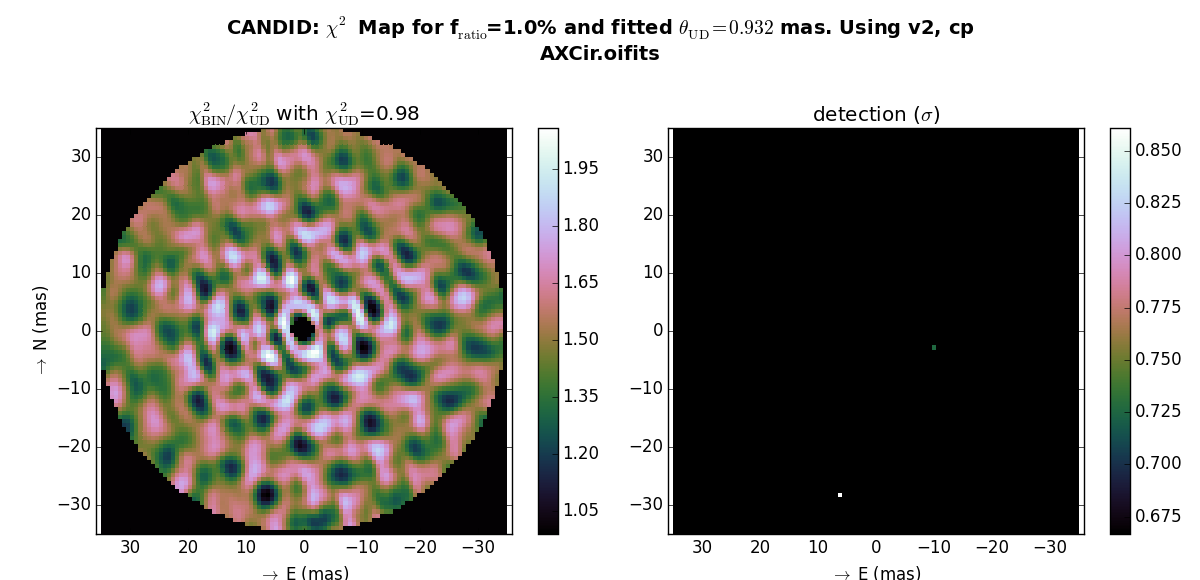
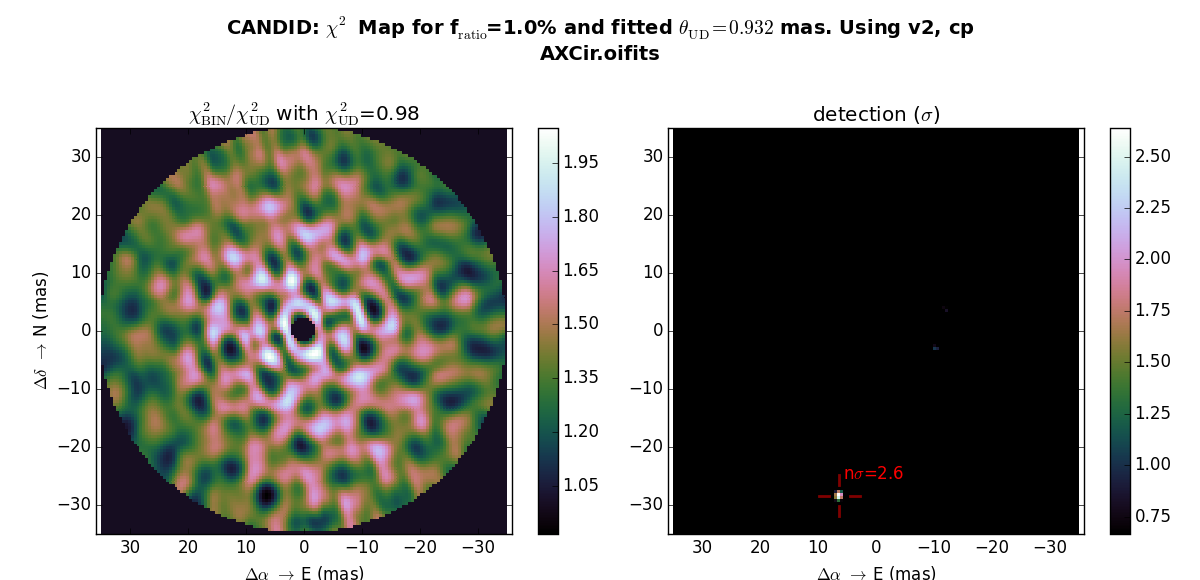
up to date doc for 0.4

diff --git a/README.md b/README.md
@@ -30,9 +30,9 @@ The code has *not* been deeply error proofed. If you encounter problems or bugs,
 ## Examples:
 
 see "candidTest.py", function "AXCir". on a Core i7 2.2GHz, It runs in about 50 seconds with the 'fast' option (fast indeed, but not accurate!), and almost 6 minutes in normal mode.
-* **chi2 Maps**. These are useful because fast, but dangerous because it is easy to miss a companion just using those. On FIG1 and FIG2, we show to runs for different diamaters and flux ratio: either the diameter is fitted to the V2 data ([FIG1](https://github.com/amerand/CANDID/blob/master/doc/figure_1.png)) or fixed ([FIG2](https://github.com/amerand/CANDID/blob/master/doc/figure_2.png)). The fit sounds better but actually it is biased if a companion is present. The chi2 map shows a deep minimum only if the grid if fine enough (the structure in the map should be clear, not pixelated) but also if the parameters (inc the flux ratio) are very close to the actual ones.
-* **fit Maps**. These are better, but much slower than chi2 maps. If V2 are present, the diameter will be fitted ([FIG3](https://github.com/amerand/CANDID/blob/master/doc/figure_3.png)). Note that once a companion is found, it can be removed analytically from the data and the fit map ran again ([FIG4](https://github.com/amerand/CANDID/blob/master/doc/figure_4.png)): this demontrates that, in the case of our example, the secondary "detections" are only artefact from the main companion.
-* **detection limits**. We imlemented 2 methods; Absil's and our companion injection ([FIG5](https://github.com/amerand/CANDID/blob/master/doc/figure_5.png)). Note that they give different results. We argue that our method is more robust to correlated noise. As an example, one can see the effects of running thge detection limits algorithms to the raw data set ([FIG5](https://github.com/amerand/CANDID/blob/master/doc/figure_5.png)) and after the companion is removed ([FIG6](https://github.com/amerand/CANDID/blob/master/doc/figure_6.png)): Absil's method gives different results, while ours remain barely changed.
+* **chi2 Maps**. These are useful because fast, but dangerous because it is easy to miss a companion just using those. On FIG1 and FIG2, we show to runs for different diamaters and flux ratio: either the diameter is fitted to the V2 data ([FIG1](https://github.com/amerand/CANDID/blob/master/doc/figure_1.png)). The chi2 map shows a minimum only if the grid if fine enough (the structure in the map should be clear, not pixelated) but also if the parameters (inc. the flux ratio) are very close to the actual ones.
+* **fit Maps**. These are better, but much slower than chi2 maps. If V2 are present, the diameter will be fitted ([FIG2](https://github.com/amerand/CANDID/blob/master/doc/figure_2.png)). Note that once a companion is found, it can be removed analytically from the data and the fit map ran again ([FIG3](https://github.com/amerand/CANDID/blob/master/doc/figure_3.png)): this demontrates that, in the case of our example, the secondary "detections" are only artefact from the main companion.
+* **detection limits**. We imlemented 2 methods; Absil's and our companion injection ([FIG4](https://github.com/amerand/CANDID/blob/master/doc/figure_4.png)). Note that they give different results. We argue that our method is more robust to correlated noise. As an example, one can see the effects of running thge detection limits algorithms to the raw data set ([FIG4](https://github.com/amerand/CANDID/blob/master/doc/figure_4.png)) and after the companion is removed ([FIG5](https://github.com/amerand/CANDID/blob/master/doc/figure_5.png)): Absil's method gives different results, while ours remain barely changed.
 
 
 Open OIFITS file with CANDID, and restrict search from 2 to 35 mas. Also, only consider 'v2' and 'cp' observables:
@@ -43,129 +43,119 @@ axcir = candid.Open('AXCir.oifits', rmin=2, rmax=35)
 axcir.observables=['v2','cp']
 ```
 
-### FIG1 - CHI2MAP with 0.7 mas step, fitted diameter and fratio=1%:
+### FIG1 - CHI2MAP with 0.5 mas step, fitted diameter and fratio=1%:
 ```python
-axcir.chi2Map(0.7, fig=1, fratio=0.01)
+axcir.chi2Map(0.5, fig=1, fratio=0.01)
 ```
 ```
  > observables: ['v2', 'cp']
  > UD Fit
  | best fit diameter: 0.932 +- 0.006 mas
  | chi2 UD = 0.975
- | Computing Map 100x100 ... it should take about 23 seconds
+ | Computing Map 140x140 ... it should take about 23 seconds
  |================================================== | 99%   0 s remainingg
- | chi2 Min:  0.96
- | at X,Y =   6.01, -28.64 mas
- | Nsigma:    0.86
+ | chi2 Min:  0.90
+ | at X,Y  :   6.29, -28.45 mas
+ | Nsigma  :  2.64
 ```
 ![Figure 1](https://github.com/amerand/CANDID/blob/master/doc/figure_1.png)
 
-### FIG2 - CHI2MAP with 0.7 mas step, and known parameters: diam=0.82 mas, fratio=0.9%:
+
+### FIG2 - FITMAP with 3.5 mas step:
 ```python
-axcir.chi2Map(0.7, fig=2, diam=0.82, fratio=0.009)
+axcir.fitMap(3.5, fig=2)
 ```
 ```
- | Chi2 UD for diam=0.820mas
- |  chi2 UD = 1.168
- | Computing Map 100x100 ... it should take about 22 seconds
- |================================================== | 99%   0 s remainingg
- | chi2 Min:  0.73
- | at X,Y =   6.01, -28.64 mas
- | Nsigma:   22.07
+ > observables: ['v2', 'cp']
+ > Preliminary analysis
+ > UD Fit
+ | best fit diameter: 0.932 +- 0.006 mas
+ | chi2 UD = 0.975
+ > Grid Fitting 20x20:
+ ... it should take about 35 seconds
+ |================================================== | 99%   0 s remaining
+ | Computing map of interpolated Chi2 minima
+ | 115 individual minima for 275 fits
+ | 10, 50, 90 percentiles for fit displacement: 1.4, 2.6, 5.1 mas
+ | Grid has the correct steps of 3.50mas, optimimum step size found to be 3.50mas
+ > BEST FIT 0: chi2= 0.73
+ |     x=  6.24e+00 +- 5.76e-02
+ |     y= -2.85e+01 +- 8.36e-02
+ |     f=  9.38e-03 +- 4.26e-04
+ | diam*=  8.34e-01 +- 7.46e-03
+ | chi2r_UD=0.98, chi2r_BIN=0.73, NDOF=1499 -> n sigma: 14.17
+ > fixed bandwidth parameters for the map (in um):
+ | dwavel;PIONIER_Pnat(1.6135391/1.7698610) =  0.156322
 ```
 ![Figure 2](https://github.com/amerand/CANDID/blob/master/doc/figure_2.png)
 
-### FIG3 - FITMAP with 3.5 mas step:
+### FIG3 - FITMAP with 3.5 mas step, after removing companion
 ```python
-axcir.fitMap(3.5, fig=3)
+p = {'x':6.24, 'y':-28.5, 'f':0.0094}
+axcir.fitMap(3.5, fig=3, removeCompanion=p)
 ```
 ```
- > observables: ['v2', 'cp']
+> observables: ['v2', 'cp']
  > Preliminary analysis
  > UD Fit
- | best fit diameter: 0.932 +- 0.006 mas
- | chi2 UD = 0.975
- > Grid Fitting 20x20: ... it should take about 79 seconds
+ | best fit diameter: 0.815 +- 0.006 mas
+ | chi2 UD = 0.753
+ > Grid Fitting 20x20: ... it should take about 24 seconds
  |================================================== | 99%   0 s remaining
  | Computing map of interpolated Chi2 minima
- | 118 individual minima for 275 fits
- | 10, 50, 90 percentiles for fit displacement: 1.3, 2.6, 5.5 mas
- | Grid has the correct steps of 3.50mas, optimimum step size found to be 3.00mas
- > BEST FIT 0: chi2= 0.73
- |     x= 6.23e+00 +- 5.82e-02
- |     y= -2.85e+01 +- 7.99e-02
- |     f= -8.90e-03 +- 4.04e-04
- | diam*= 8.22e-01 +- 7.90e-03
- | chi2r_UD=0.98, chi2r_BIN=0.73, NDOF=1499 -> n sigma: 14.16
+ | 133 individual minima for 275 fits
+ | 10, 50, 90 percentiles for fit displacement: 1.2, 2.9, 5.9 mas
+ | Grid has the correct steps of 3.50mas, optimimum step size found to be 3.89mas
+ > BEST FIT 0: chi2= 0.71
+ |     x=  6.60e+00 +- 1.32e-01
+ |     y=  2.27e+00 +- 1.80e-01
+ |     f=  3.55e-03 +- 3.70e-04
+ | diam*=  7.52e-01 +- 9.42e-03
+ | chi2r_UD=0.75, chi2r_BIN=0.71, NDOF=1499 -> n sigma:  2.05
+ > fixed bandwidth parameters for the map (in um):
+ | dwavel;PIONIER_Pnat(1.6135391/1.7698610) =  0.156322
 ```
+
 ![Figure 3](https://github.com/amerand/CANDID/blob/master/doc/figure_3.png)
 
-### FIG4 - FITMAP with 3.5 mas step, after removing companion
-```python
-p = {'x':6.23, 'y':-28.5, 'f':0.0089}
-axcir.fitMap(3.5, fig=4, removeCompanion=p)
-```
-```
- > observables: ['v2', 'cp']
- > Preliminary analysis
- > UD Fit
- | best fit diameter: 0.822 +- 0.006 mas
- | chi2 UD = 0.750
- > Grid Fitting 20x20: ... it should take about 143 seconds
- |================================================== | 99%   0 s remainingg
- | Computing map of interpolated Chi2 minima
- | 138 individual minima for 275 fits
- | 10, 50, 90 percentiles for fit displacement: 1.2, 2.9, 5.5 mas
- | Grid has the correct steps of 3.50mas, optimimum step size found to be 3.00mas
- > BEST FIT 0: chi2= 0.70
- |     x= 6.56e+00 +- 1.28e-01
- |     y= 2.28e+00 +- 1.77e-01
- |     f= 3.60e-03 +- 3.67e-04
- | diam*= 7.58e-01 +- 9.33e-03
- | chi2r_UD=0.75, chi2r_BIN=0.70, NDOF=1499 -> n sigma:  2.12
-```
-
-![Figure 4](https://github.com/amerand/CANDID/blob/master/doc/figure_4.png)
-
-### FIG5 - DETECTION LIMIT, 1mas step
-This leads to a result which is not relevant: we already know there is a companion in the data, which means the assumptions of the statistical tests are not met. Interestingly, the 2 methods diveregs, which means there are not sensitive in the same way to the correlated noise introduced by the companion.
+### FIG4 - DETECTION LIMIT, 1mas step
+This leads to a result which is not relevant: we already know there is a companion in the data, which means the assumptions of the statistical tests are not met. Interestingly, the 2 methods diverege, which means there are not sensitive in the same way to the correlated "noise" introduced by the companion.
 
 ```python
-axcir.detectionLimit(1.0, fig=5); plt.subplot(212);  plt.ylim(0.2, 1.0)
+axcir.detectionLimit(1.0, fig=4); plt.subplot(212);  plt.ylim(0.2, 1.0)
 ```
 ```
  > observables: ['v2', 'cp']
  > UD Fit
  | best fit diameter: 0.932 +- 0.006 mas
  | chi2 UD = 0.975
- > Detection Limit Map 70x70 ... it should take about 112 seconds
- > Method: Absil
- |================================================== | 99%   0 s remaining
- > Method: injection
- |================================================== | 99%   0 s remaining
-```
-
-![Figure 5](https://github.com/amerand/CANDID/blob/master/doc/figure_5.png)
-
-### FIG6 - DETECTION LIMIT, 1mas step, after removing companion
-We here remove the companion analyticaly (using a high contrast hypothesis). In that case, the two methods (Absil and companion injection) should give similar result, assuming the remaining noise is uncorrelated (which we know is not true). Comparing this to the previous result, we can see that the injection method is more robust.
-```python
-p = {'x':6.23, 'y':-28.5, 'f':0.0089}
-axcir.detectionLimit(1.0, fig=6, removeCompanion=p); plt.subplot(212); plt.ylim(0.2, 1.0)
-```
-```
- > observables: ['v2', 'cp']
- > UD Fit
- | best fit diameter: 0.822 +- 0.006 mas
- | chi2 UD = 0.750
  > Detection Limit Map 70x70 ... it should take about 109 seconds
  > Method: Absil
  |================================================== | 99%   0 s remaining
  > Method: injection
  |================================================== | 99%   0 s remaining
 ```
-![Figure 6](https://github.com/amerand/CANDID/blob/master/doc/figure_6.png)
 
+![Figure 4](https://github.com/amerand/CANDID/blob/master/doc/figure_4.png)
+
+### FIG6 - DETECTION LIMIT, 1mas step, after removing companion
+We here remove the companion analyticaly (using a high contrast hypothesis) from the V2 and CP data. In that case, the two methods (Absil and companion injection) should give more similar results, assuming the remaining noise is uncorrelated (which we know is probably not true). Comparing this to the previous result, we can see that the injection method is more robust (less change compared to data with companion). The two methods still diverge, but less.
+```python
+p = {'x':6.24, 'y':-28.5, 'f':0.0094}
+axcir.detectionLimit(1.0, fig=5, removeCompanion=p); plt.subplot(212); plt.ylim(0.2, 1.0)
+```
+```
+ > observables: ['v2', 'cp']
+ > UD Fit
+ | best fit diameter: 0.815 +- 0.006 mas
+ | chi2 UD = 0.753
+ > Detection Limit Map 70x70 ... it should take about 114 seconds
+ > Method: Absil
+ |================================================== | 99%   0 s remaining
+ > Method: injection
+ |================================================== | 99%   0 s remaining
+```
+![Figure 5](https://github.com/amerand/CANDID/blob/master/doc/figure_5.png)
 
 
 ### CONFIG parameters
